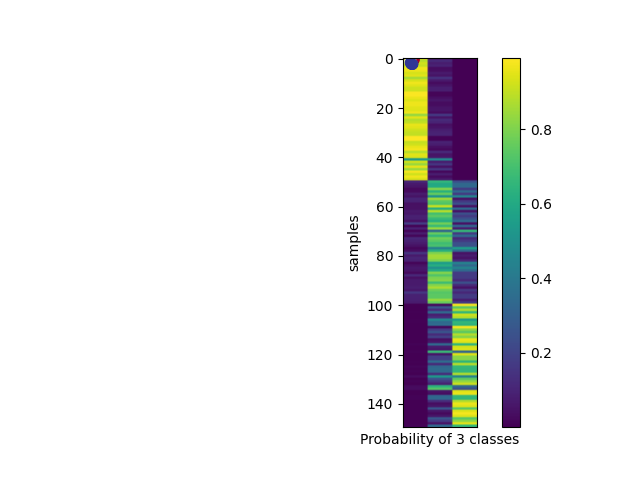
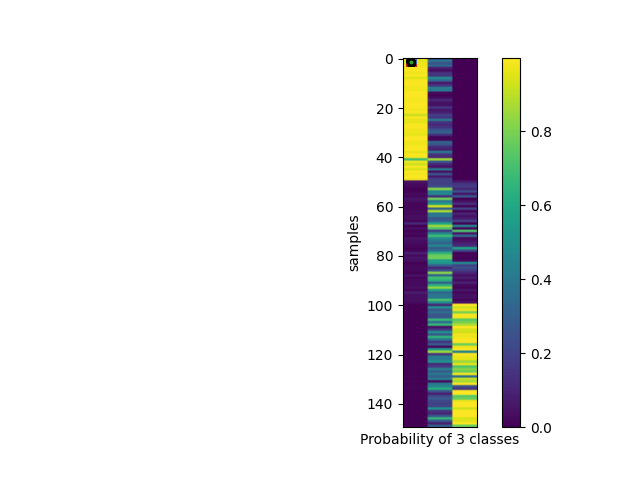
Plot the probability array

diff --git a/lab.py b/lab.py
@@ -169,3 +169,9 @@ for j,model in enumerate(my_models):
     '''real_class will be tuple which will contain indices of elemnts in model.classes_'''
     probability_array[:,j]=model.predict_proba(x)[:,real_class][:,0]
     '''Probability of each class belonging to first sample'''
+print(probability_array[0,:])
+'''prints the values of row 0 columns all '''
+'''as each of these probabilities is of belong to actual class the sum will noe be equal to 1'''
+print(probability_array[0,:].sum())
+plot_probability_array(x,probability_array)
+
